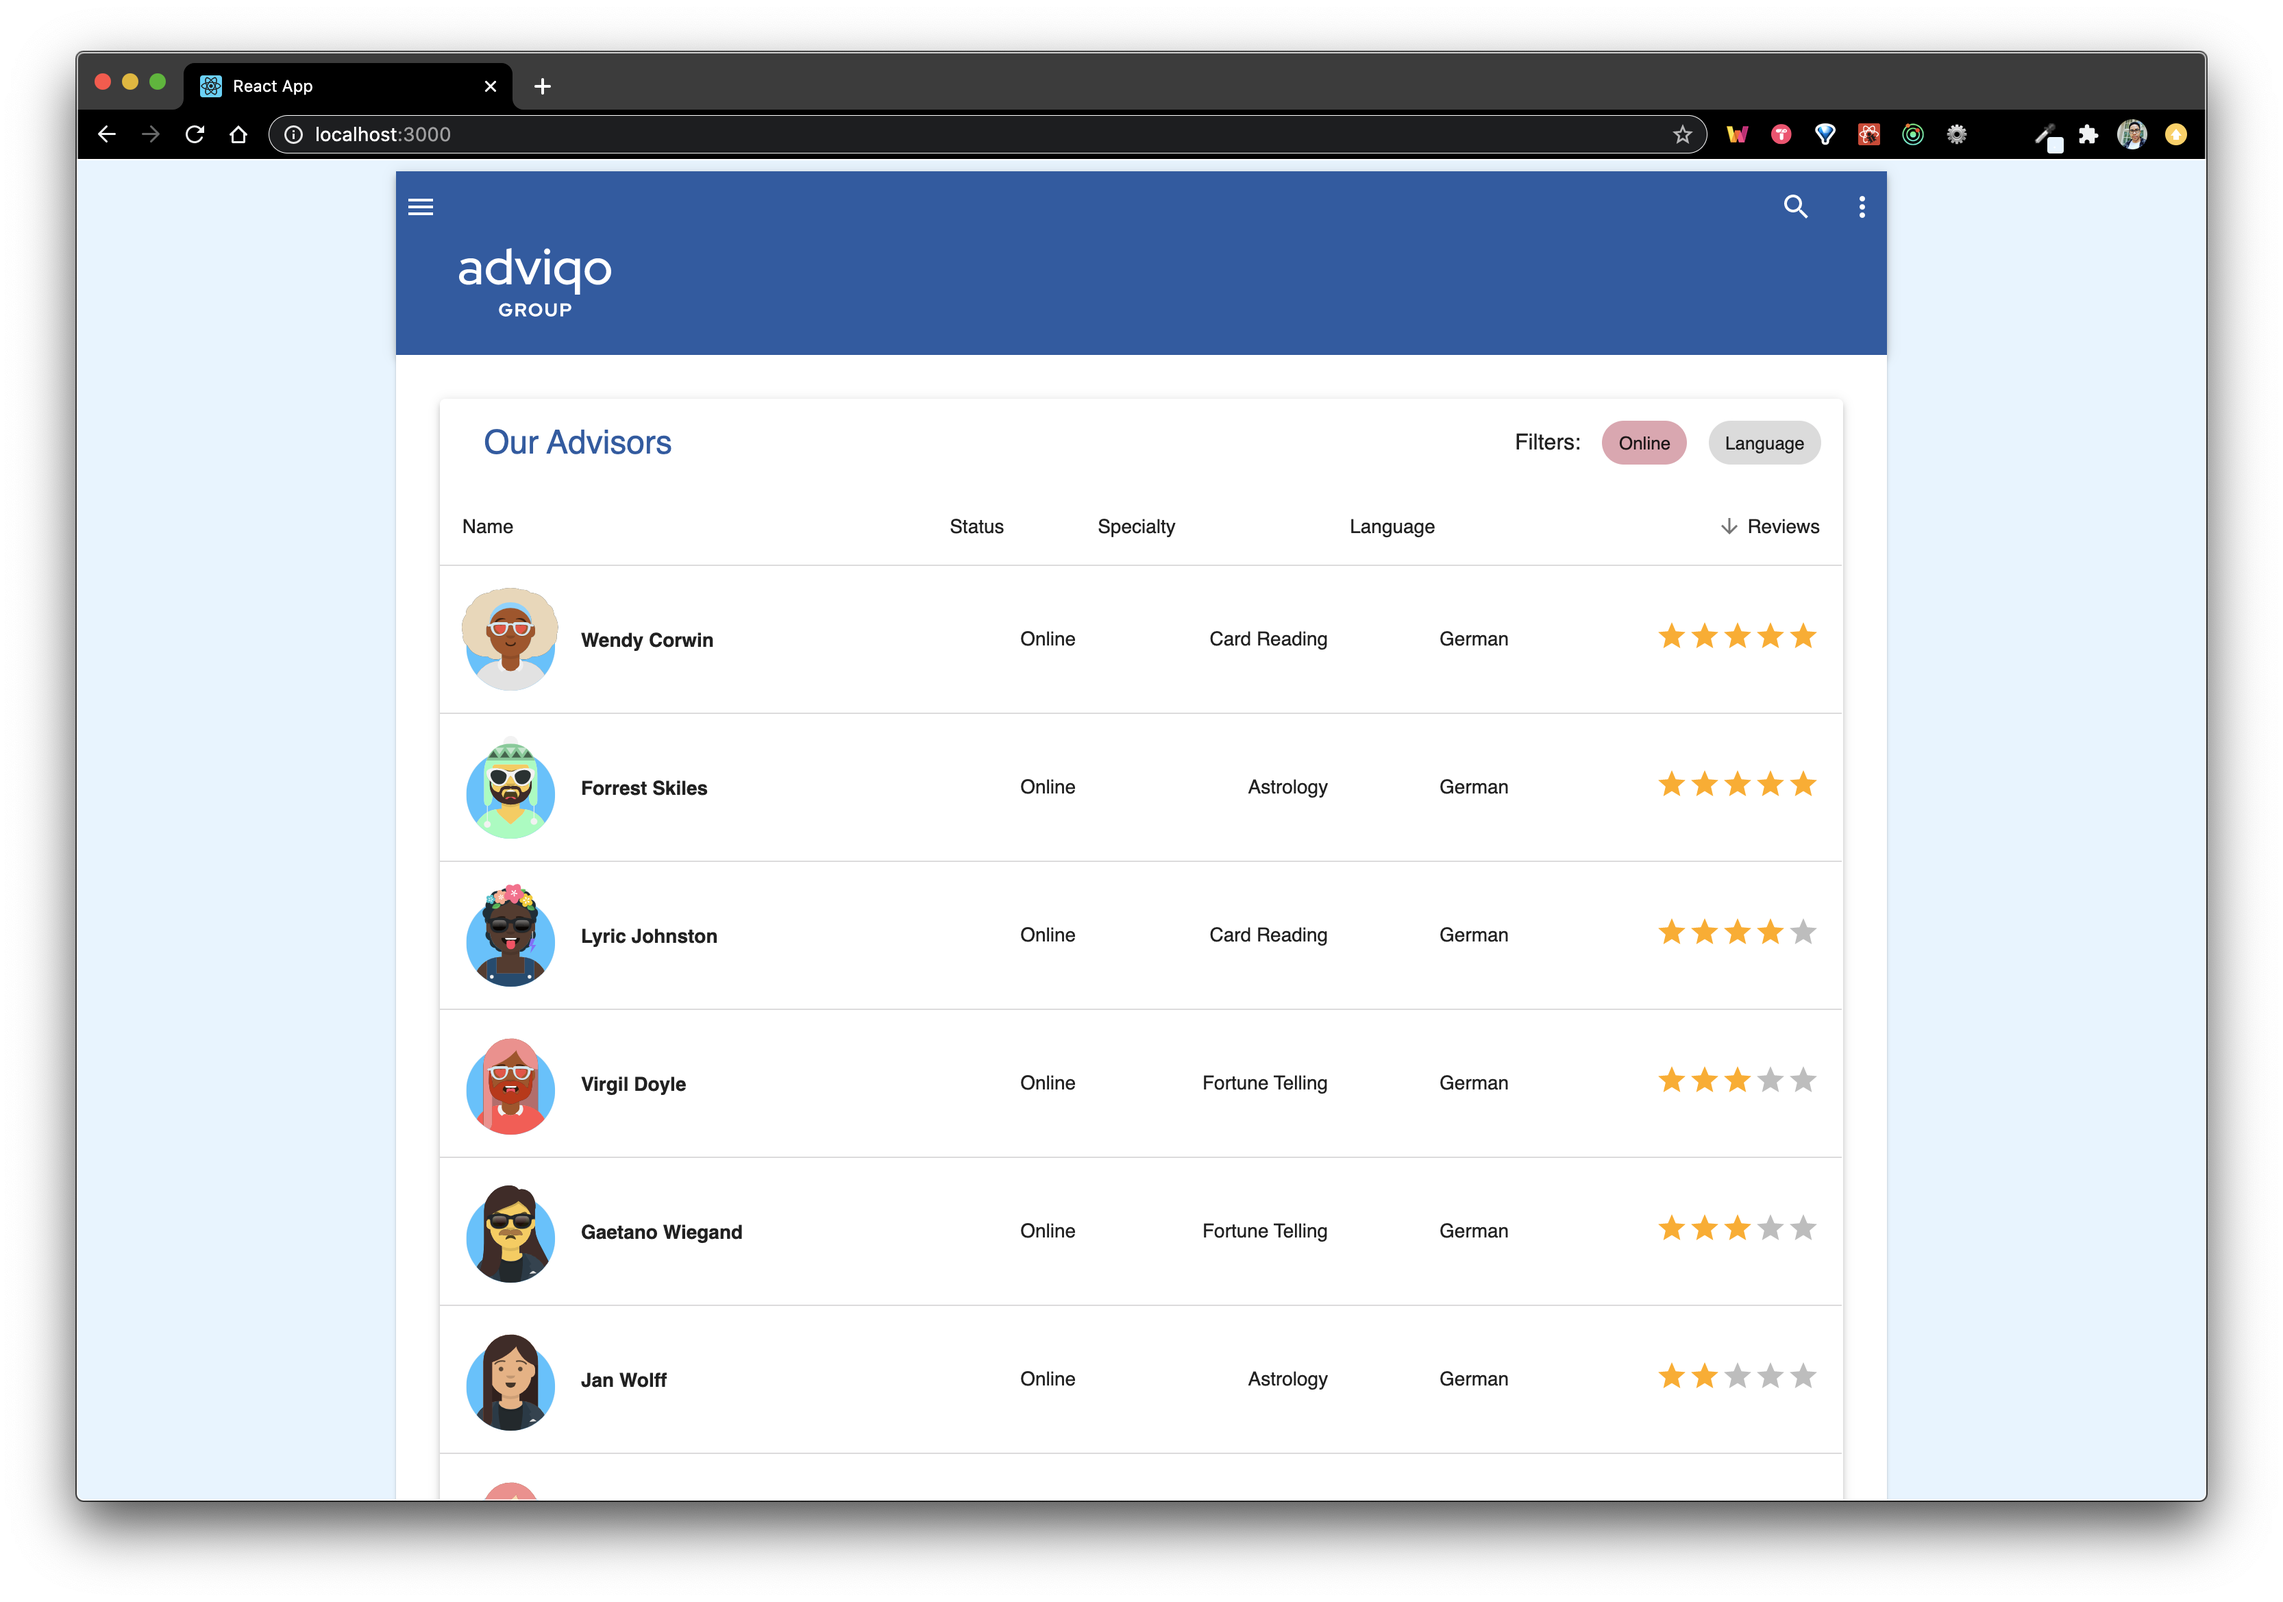
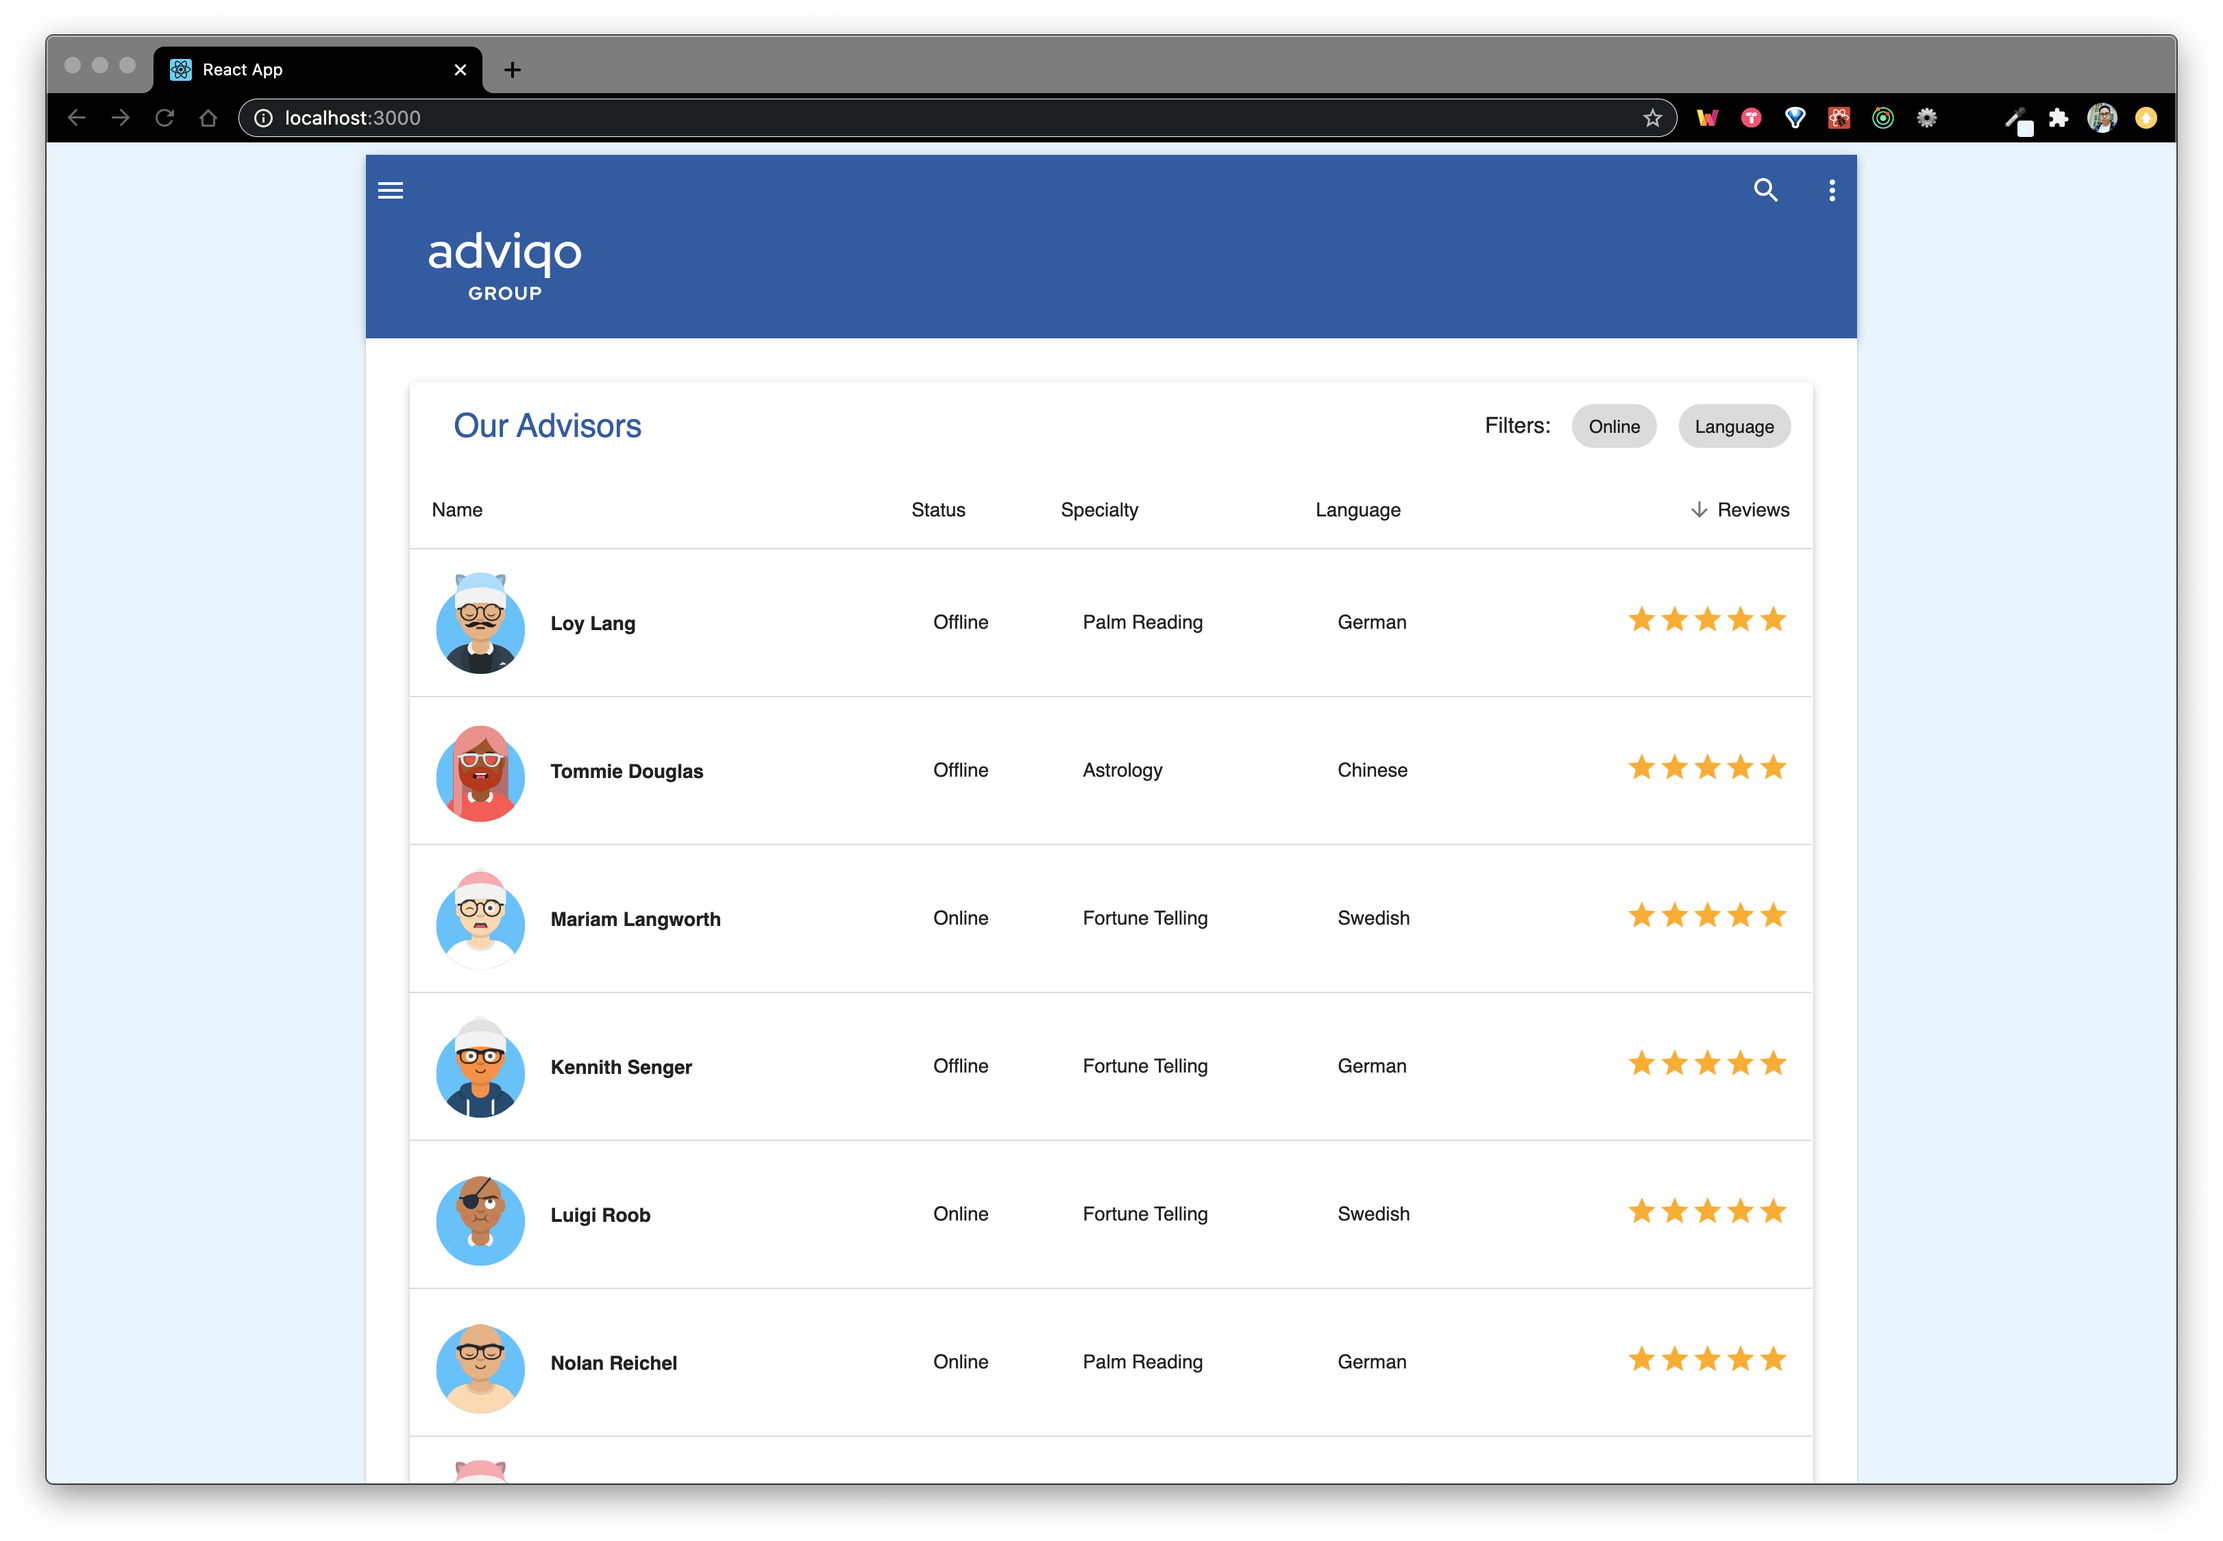
improvement: update table alignment

diff --git a/src/features/Advisors/SortableTable/SortableTable.jsx b/src/features/Advisors/SortableTable/SortableTable.jsx
@@ -172,9 +172,9 @@ function SortableTable({
                             </span>
                           </div>
                         </TableCell>
-                        <TableCell align="right">{row.status}</TableCell>
-                        <TableCell align="right">{row.specialty}</TableCell>
-                        <TableCell align="right">{row.language}</TableCell>
+                        <TableCell align="left">{row.status}</TableCell>
+                        <TableCell align="left">{row.specialty}</TableCell>
+                        <TableCell align="left">{row.language}</TableCell>
                         <TableCell align="right">
                           <Rating
                             name="read-only"
